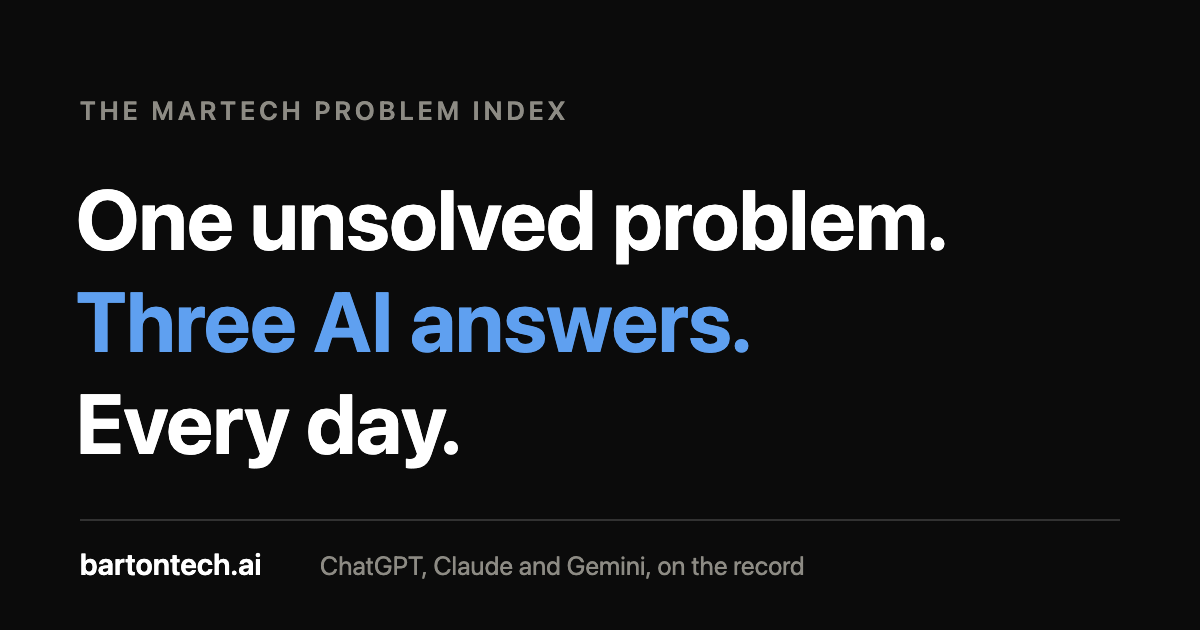
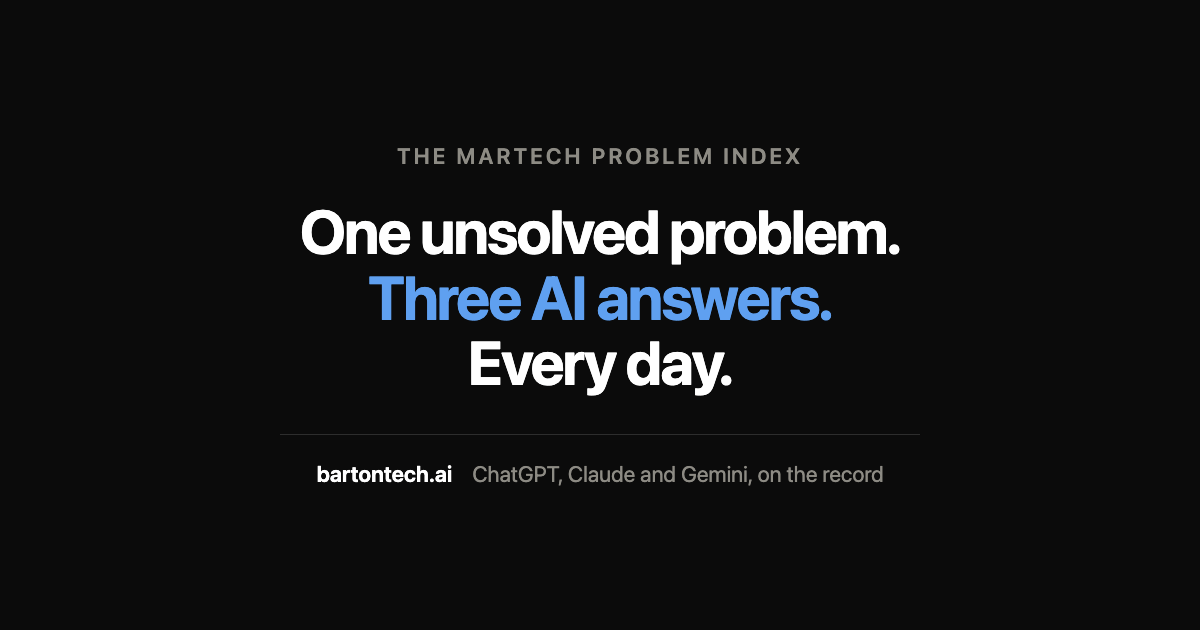
Center the share card so Teams-style crops keep the headline
Teams center-crops og:image to roughly 4:3 for its compact preview, which
cut the first letters off every line of the left-aligned card. The card is
recomposed with the same copy, colors and type inside a 640px centered safe
zone, so it survives 4:3 and square crops while still filling the full
1.91:1 frame on LinkedIn, X, Slack and iMessage. Flat colors keep it at
18 KB.

The og:image and twitter:image URLs gain ?v=2 so scrapers that cached the
old image refetch it. The HTML source and render command are kept in
src/site/og-card.html; the original was rendered once with no source.

diff --git a/src/site/og-card.html b/src/site/og-card.html
@@ -1,0 +1,33 @@
+<!--
+  Source for assets/og.png (the social share card).
+
+  The card is 1200x630 for Facebook, LinkedIn, X, Slack and iMessage, which
+  show the full 1.91:1 image. Teams and a few chat clients center-crop it to
+  roughly 4:3 or square, so all content stays inside a 640px-wide centered
+  safe zone. Anything outside the central ~630px can be cut off.
+
+  Render with headless Chrome, then copy the result over assets/og.png and
+  bump the ?v= query on the og:image and twitter:image URLs (build-site.js
+  and lib/render.js) so scrapers refetch it:
+
+  "/Applications/Google Chrome.app/Contents/MacOS/Google Chrome" \
+    --headless=new --disable-gpu --hide-scrollbars \
+    --force-device-scale-factor=1 --window-size=1200,630 \
+    --screenshot=og.png file://$PWD/src/site/og-card.html
+-->
+<!doctype html><meta charset="utf-8"><style>
+html,body{margin:0;width:1200px;height:630px;overflow:hidden}
+body{background:#0b0b0b;color:#fff;font-family:-apple-system,BlinkMacSystemFont,"SF Pro Display","Segoe UI",Helvetica,Arial,sans-serif;display:flex;align-items:center;justify-content:center;text-align:center}
+.safe{width:640px}
+.eyebrow{font-size:22px;letter-spacing:.14em;text-transform:uppercase;color:#8d8b84;font-weight:600;margin:0 0 30px}
+h1{font-size:61px;line-height:1.08;letter-spacing:-.03em;font-weight:680;margin:0}
+h1 em{font-style:normal;color:#5fa0f0}
+hr{border:0;border-top:1px solid rgba(255,255,255,.14);margin:38px 0 26px}
+.foot{font-size:22px;color:#8d8b84;display:flex;justify-content:center;gap:0 20px;flex-wrap:wrap}
+.foot b{color:#fff;font-weight:650}
+</style><body><div class="safe">
+<p class="eyebrow">The Martech problem index</p>
+<h1>One unsolved problem.<br><em>Three AI answers.</em><br>Every day.</h1>
+<hr>
+<div class="foot"><b>bartontech.ai</b><span>ChatGPT, Claude and Gemini, on the record</span></div>
+</div></body>

diff --git a/src/lib/render.js b/src/lib/render.js
@@ -56,7 +56,7 @@ export function headBlock({ title, description, path, jsonLd }) {
 <meta property="og:title" content="${esc(title)}">
 <meta property="og:description" content="${esc(description)}">
 <meta property="og:locale" content="en_US">
-<meta property="og:image" content="${SITE}/og.png">
+<meta property="og:image" content="${SITE}/og.png?v=2">
 <meta property="og:image:width" content="1200">
 <meta property="og:image:height" content="630">
 <meta property="og:image:type" content="image/png">
@@ -64,7 +64,7 @@ export function headBlock({ title, description, path, jsonLd }) {
 <meta name="twitter:card" content="summary_large_image">
 <meta name="twitter:title" content="${esc(title)}">
 <meta name="twitter:description" content="${esc(description)}">
-<meta name="twitter:image" content="${SITE}/og.png">
+<meta name="twitter:image" content="${SITE}/og.png?v=2">
 <meta name="twitter:image:alt" content="The Martech problem index: one unsolved problem, three AI answers, every day.">
 <link rel="alternate" type="application/atom+xml" href="${SITE}/feed.xml" title="The Martech problem index, daily">
 ${jsonLd ? `<script type="application/ld+json">${jsonLd}</script>` : ''}

diff --git a/src/build-site.js b/src/build-site.js
@@ -283,7 +283,7 @@ function build() {
 <meta property="og:title" content="${esc(TITLE)}">
 <meta property="og:description" content="${esc(DESCRIPTION)}">
 <meta property="og:locale" content="en_US">
-<meta property="og:image" content="${SITE}/og.png">
+<meta property="og:image" content="${SITE}/og.png?v=2">
 <meta property="og:image:width" content="1200">
 <meta property="og:image:height" content="630">
 <meta property="og:image:type" content="image/png">
@@ -291,7 +291,7 @@ function build() {
 <meta name="twitter:card" content="summary_large_image">
 <meta name="twitter:title" content="${esc(TITLE)}">
 <meta name="twitter:description" content="${esc(DESCRIPTION)}">
-<meta name="twitter:image" content="${SITE}/og.png">
+<meta name="twitter:image" content="${SITE}/og.png?v=2">
 <meta name="twitter:image:alt" content="The Martech problem index: one unsolved problem, three AI answers, every day.">
 <link rel="alternate" type="application/json" href="${SITE}/data/latest.json" title="Latest snapshot">
 <link rel="alternate" type="application/atom+xml" href="${SITE}/feed.xml" title="The Martech problem index, daily">

diff --git a/README.md b/README.md
@@ -88,7 +88,8 @@ page, plus `/archive/`, `/recognition/` and `/how-it-works/`.
   Question/Answer on day pages, Thing-with-aliases on problem pages,
   BreadcrumbList on all subpages.
 - Atom feed, per-URL sitemap lastmod, OG/Twitter cards with a generated
-  og.png.
+  og.png (source in src/site/og-card.html; content sits in a centered safe
+  zone so Teams-style center crops keep the headline intact).
 
 ## Layout
 
